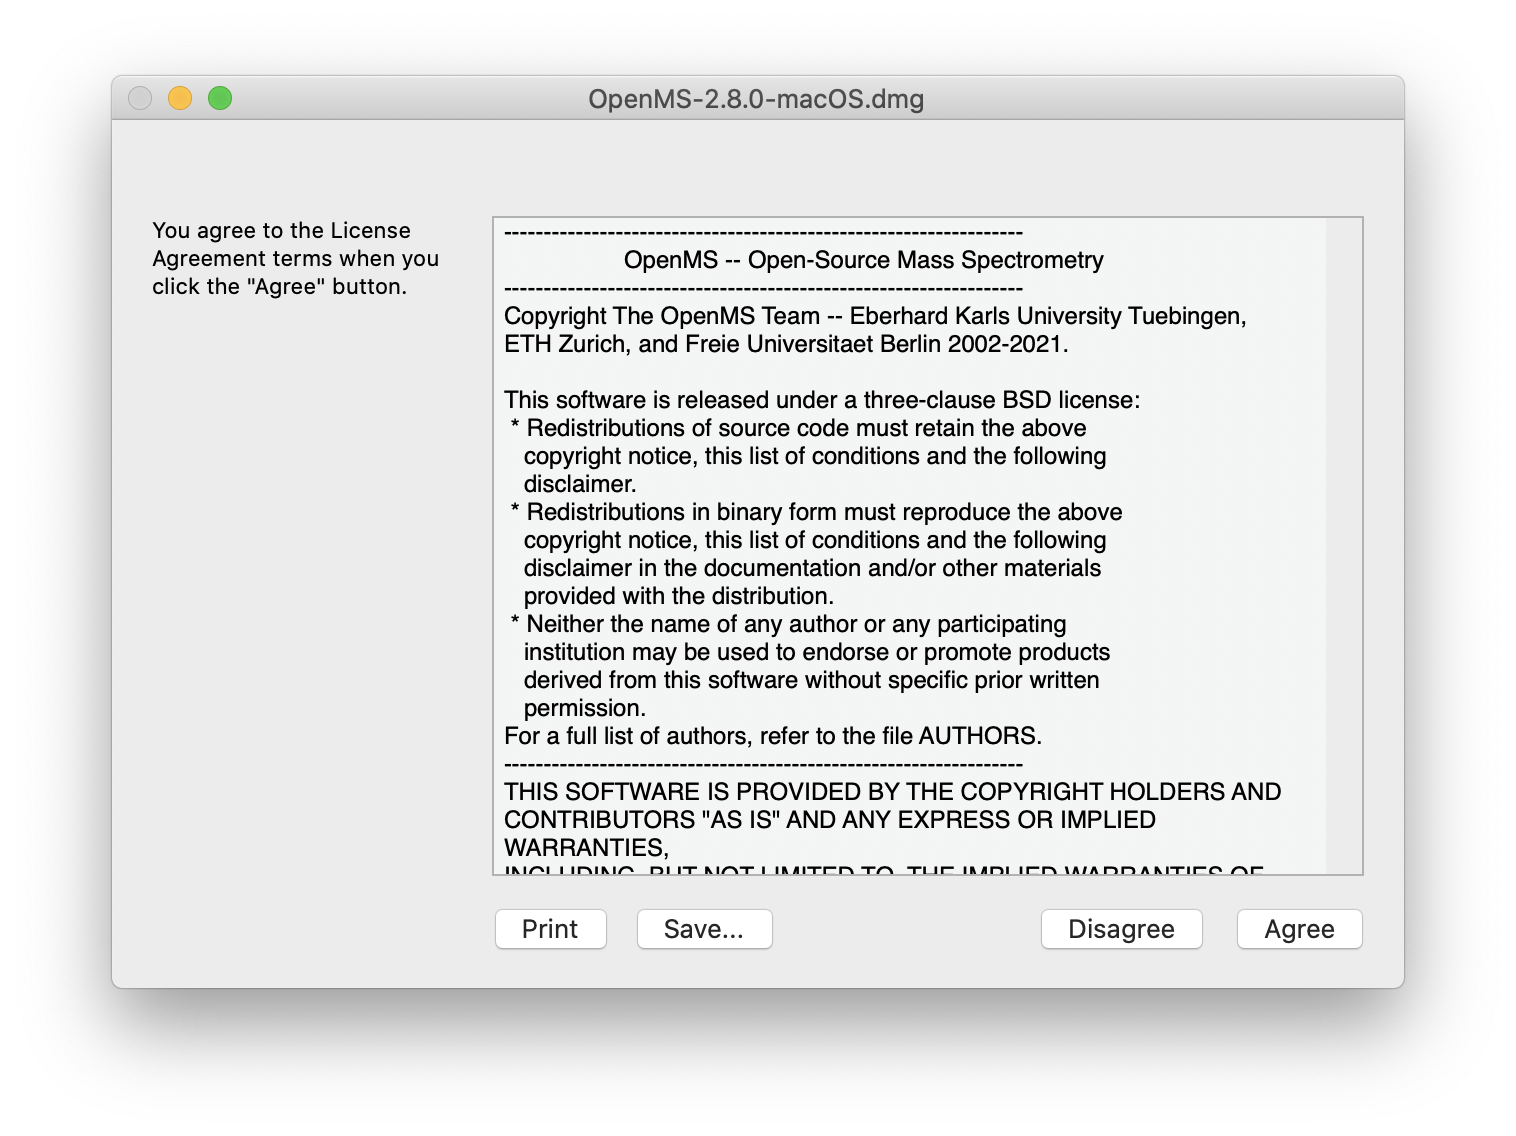
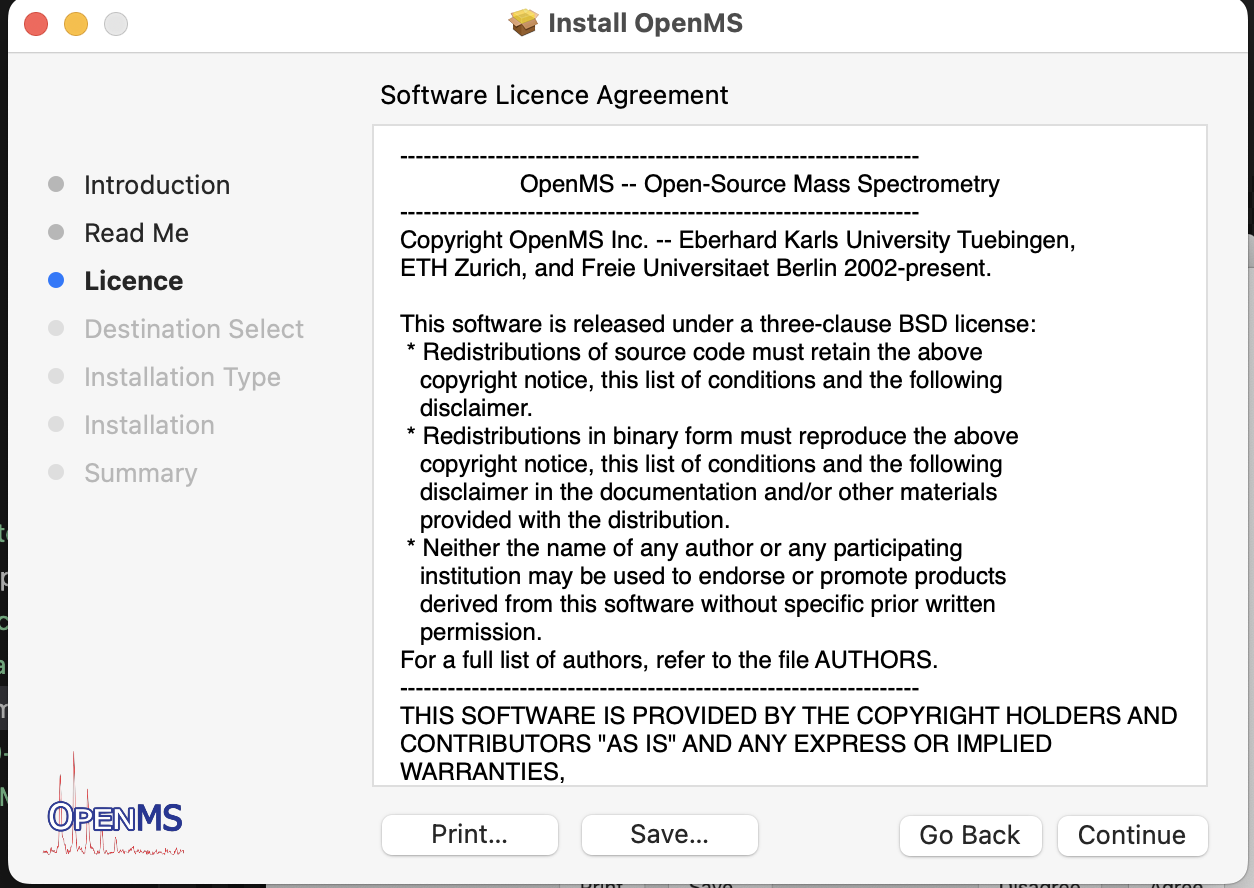
Updated macOS installation guide with latest OpenMS download instruct… (#250)
* Updated macOS installation guide with latest OpenMS download instructions and improved formatting

* Refactored installation process for macOS by bypassing Gatekeeper

* Add instructions for trusting OpenMS installer on macOS

* Update installation-on-macos.md

---------

Changed region(s): [[0.0, 0.0, 1.0, 1.0], [0.1866, 0.4257, 0.2177, 0.4561]]

diff --git a/docs/about/installation/installation-on-macos.md b/docs/about/installation/installation-on-macos.md
@@ -10,44 +10,67 @@ macOS
 To install OpenMS on macOS, run the following steps:
 
 1. Download and install the macOS drag-and-drop installer from the [archive](https://abibuilder.cs.uni-tuebingen.de/archive/openms/OpenMSInstaller/release/latest/).
-2. Double click on the downloaded file. It will start to open the `OpenMS-<version>-macOS.dmg` disk image file.
+2.Double click on the downloaded file. It will start to open the `OpenMS-<version>-macOS.pkg` installer file.
 
-```{image} /_images/installations/macos/opening-openms2-8-macos.png
-:alt: Opening OpenMS-<version>-macOS.dmg
-:width: 500px
+```{image} /_images/installations/macos/Warning-openMS-3.3.0-macOS-Silicon.pkg-Not-Opened.png
+:alt: macOS warning message when opening OpenMS-<version>-macOS.pkg  
+:width: 500px  
+```
+**Why This Warning Appears:**
+
+The warning indicates that the OpenMS installer hasn't been notarized or recognized by Apple as being from an identified developer. This doesn't necessarily mean the software is unsafe; it simply means that macOS cannot verify its source.  [support.apple.com](https://support.apple.com/en-us/102445)
+
+**How to Proceed:**
+
+Bypassing Gatekeeper to Install OpenMS on macOS
+
+A. Bypassing Gatekeeper Using System Settings 
+
+1. Open **System Settings**.  
+2. Navigate to **Privacy & Security**.  
+3. Under the **Security** section, locate the message about the blocked application.  
+4. Click the **Open Anyway** button .  
+
+```{image} /_images/installations/macos/Bypassing-Gatekeeper-to-Install-OpenMS-on-macOS.png
+:alt: Bypassing Gatekeeper on macOS  
+:width: 500px  
+```
+B. Bypassing Gatekeeper Using Command-Line    
+
+For users comfortable with the command line, you can bypass the security warning using Terminal:  
+
+1. Open **Terminal**.  
+2. Navigate to the directory containing the installer using the `cd` command:  
+
+   ```bash
+   cd /path/to/installer
+   ```
+3. Run the following command to remove the quarantine attribute:   
+
+   ```bash
+   xattr -d com.apple.quarantine OpenMS-<version>-macOS.pkg
+   ```
+By following these steps, you’re instructing macOS to trust the OpenMS installer and allow its execution. Ensure that you’ve downloaded the installer from a **trusted source** (i.e., build archive of the Unversity of Tübingen or OpenMS' GitHub artifacts) before proceeding.     
+
+4. Install OpenMS 
+
+```{image} /_images/installations/macos/Installation-successful-message.png
+:alt: OpenMS installation started on macOS  
+:width: 500px  
 ```
 
-3. Verify the download.
-
-```{image} /_images/installations/macos/verifying-openms2-8-macos.png
-:alt: Verifying OpenMS-<version>-macOS.dmg
-:width: 500px
-```
-
-4. Agree to the license agreements.
+5. Agree to the license agreements.
 
 ```{image} /_images/installations/macos/license-agreements.png
 :alt: License agreement
 :width: 500px
 ```
 
-5. Drag OpenMS to the Applications folder.
+6. Installation Confirmation
 
-```{image} /_images/installations/macos/move-openms-to-applications.png
-:alt: Move to Applications
-:width: 500px
-```
-
-6. It will start copying to applications.
-
-```{image} /_images/installations/macos/preparing-to-copy-to-applications.png
-:alt: Preparing to copy to Applications
-:width: 500px
-```
-
-```{image} /_images/installations/macos/copying-to-applications.png
-:alt: Copying to Applications
-:width: 500px
+```{image} /_images/installations/macos/Installation-successful-message.png
+:alt: OpenMS installation successful  
+:width: 500px  
 ```
 
 To use {term}`TOPP` as regular app in the shell, add the following lines to the `~/.profile` file.
@@ -56,7 +79,7 @@ To use {term}`TOPP` as regular app in the shell, add the following lines to the 
 
 1. Nothing happens when you click OpenMS apps or the validity of the developer could not be confirmed.
    
-   This usually means the OpenMS software lands in quarantine after installation of the `.dmg`.
+   This usually means the OpenMS software lands in quarantine even after installation of the `.pkg`. This was more common with our older `.dmg` image but may still happen.
    Since macOS Catalina (maybe also Mojave) all apps and executables have to be officially notarized by Apple but we
    currently do not have the resources for a streamlined notarization workflow.
 
